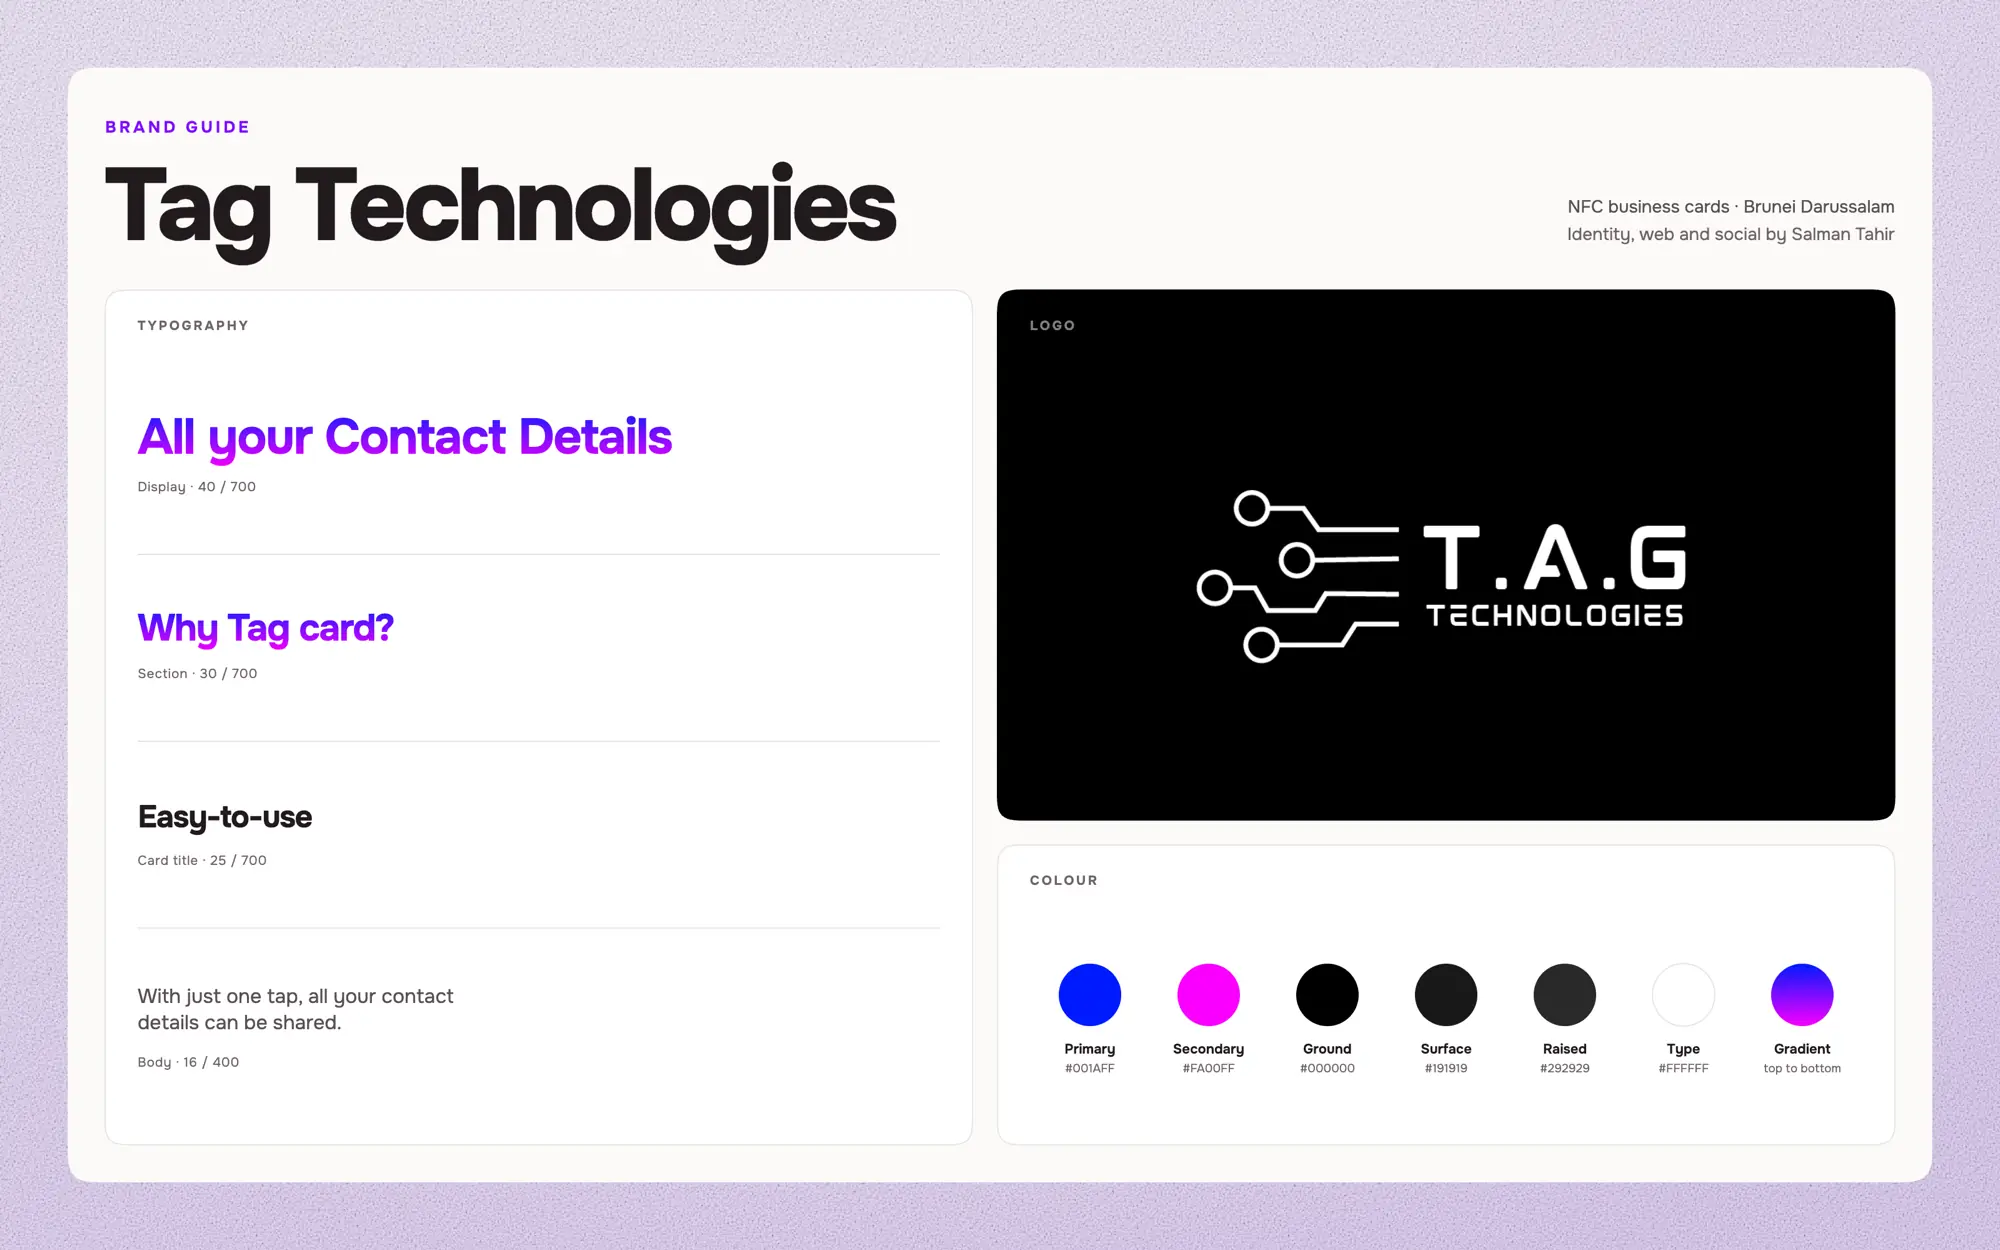
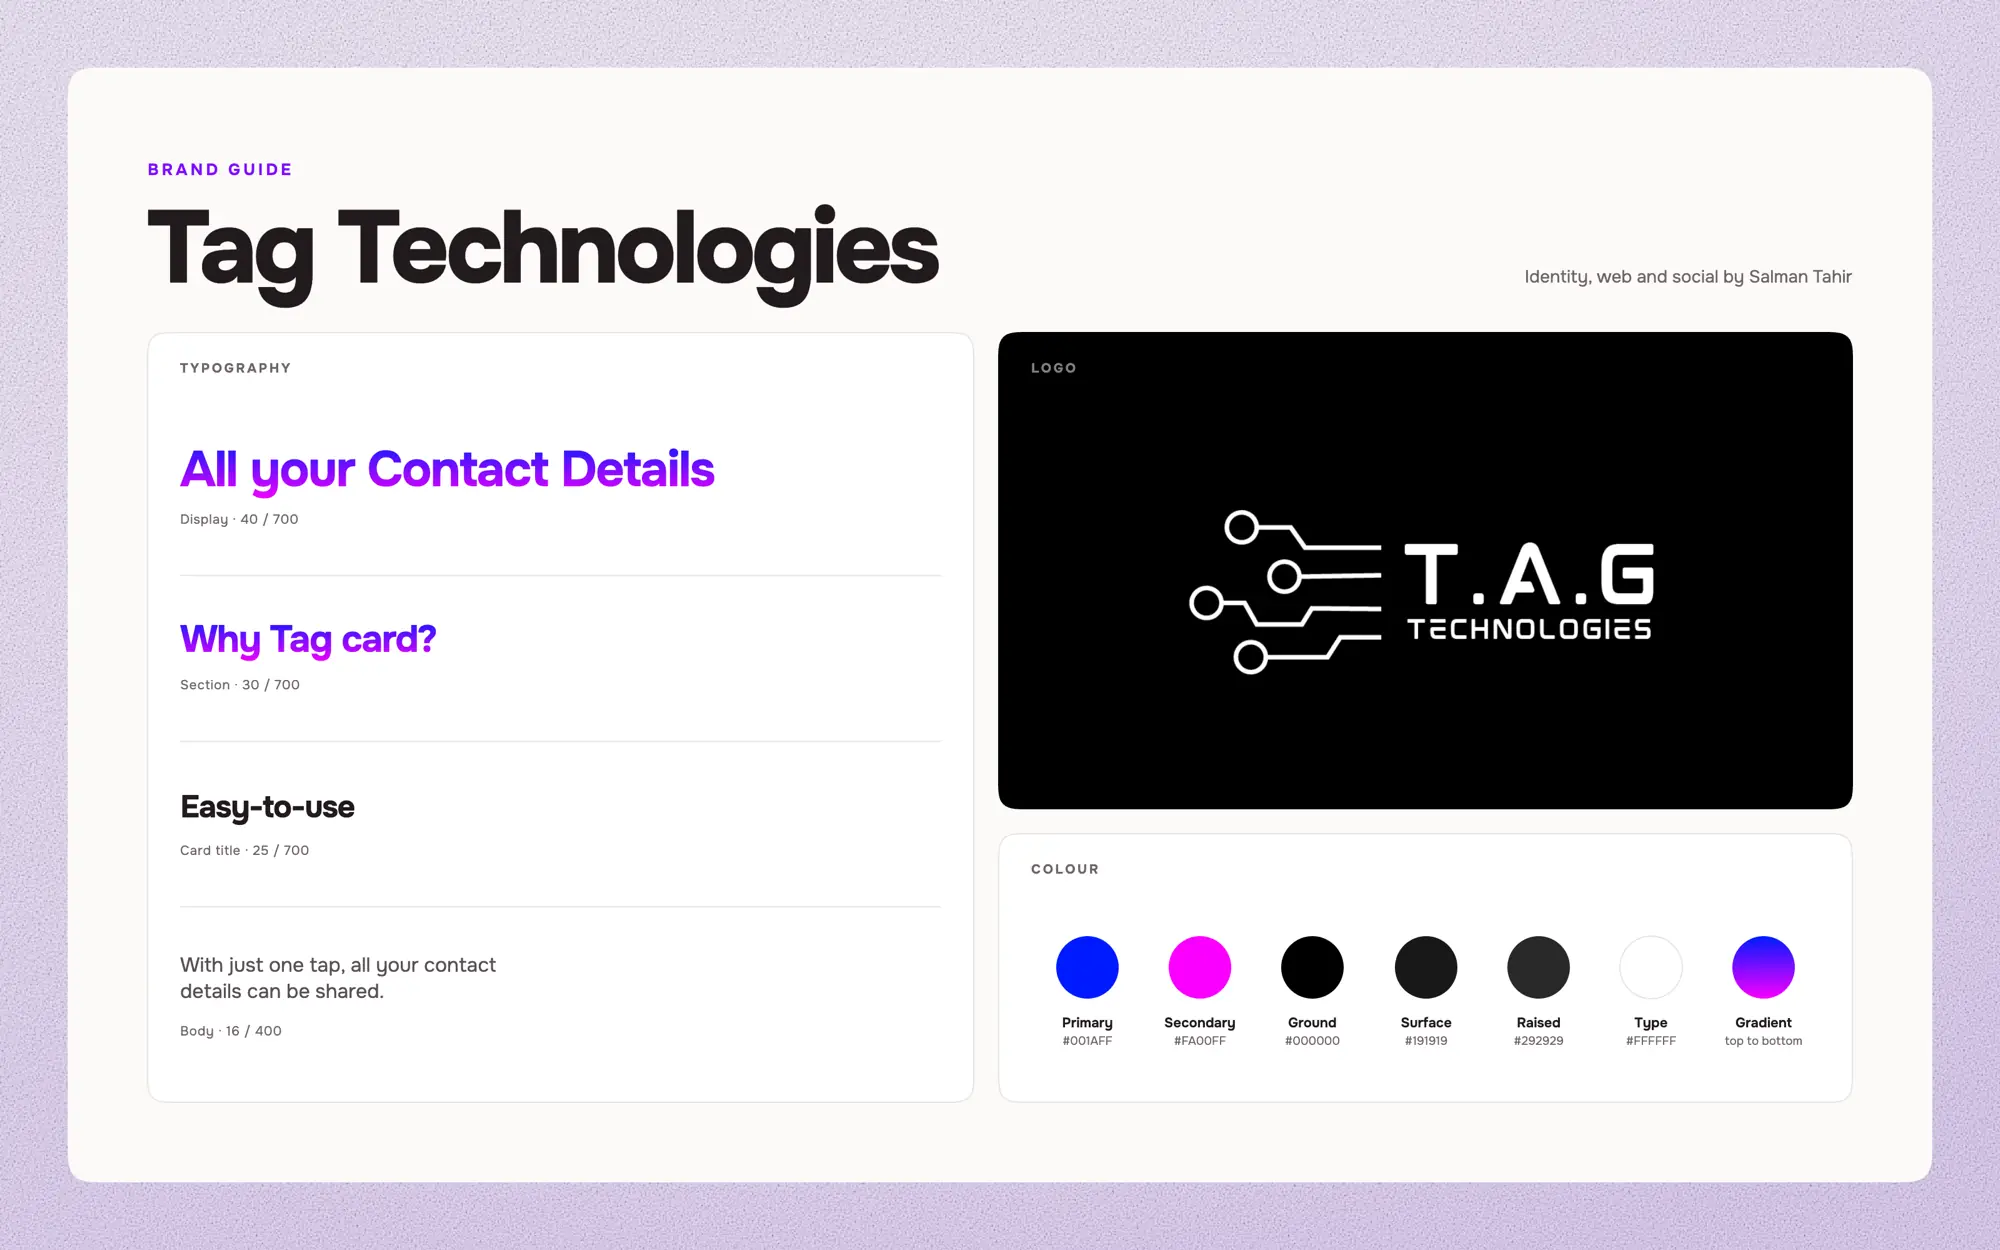
Band the case study, tighten the brand guide
- Case study now bands like the home page: the opening block and feature image
  on paper, the argument on white, related work in its own alt band
- Related tiles lost a slug that leaked in when their pills were added
- Brand guide: more padding inside the sheet, descriptor line removed

diff --git a/work/tag-technologies/index.html b/work/tag-technologies/index.html
@@ -115,7 +115,8 @@
       </div>
     </section>
 
-    <section class="wrap cs-body">
+    <section class="cs-body-sec">
+      <div class="wrap cs-body">
       <div class="cs-main">
 
         <div class="glance rv">
@@ -373,6 +374,7 @@
         <span class="rail-row"><span class="rail-k eyebrow-2 label">Where</span><span class="rail-v">Brunei Darussalam</span></span>
         <span class="rail-row"><span class="rail-k eyebrow-2 label">Live</span><span class="rail-v"><a href="https://tagtechnologies.net" target="_blank" rel="noopener">tagtechnologies.net</a></span></span>
       </aside>
+      </div>
     </section>
   </article>
 
@@ -386,7 +388,7 @@
             <img src="/assets/img/bizdigital/feature.webp" width="1600" height="1757" alt="BizDigital agency website redesign" loading="lazy">
           </span>
           <span class="rel-t">BizDigital</span>
-          <span class="rel-s">Agency site redesign, brief to build</span>bizdigital
+          <span class="rel-s">Agency site redesign, brief to build</span>
           <span class="tags"><span class="tag label sq-xs"><svg viewBox="0 0 24 24"><use href="#i-web"/></svg>Web design</span><span class="tag label sq-xs"><svg viewBox="0 0 24 24"><use href="#i-dev"/></svg>Development</span></span>
         </a>
         <a class="rel" href="/work/">
@@ -394,7 +396,7 @@
             <img src="/assets/img/fxcubict/feature.webp" width="1200" height="975" alt="Fxcubict fintech landing page" loading="lazy">
           </span>
           <span class="rel-t">Fxcubict</span>
-          <span class="rel-s">Fintech landing page and identity</span>fxcubict
+          <span class="rel-s">Fintech landing page and identity</span>
           <span class="tags"><span class="tag label sq-xs"><svg viewBox="0 0 24 24"><use href="#i-brand"/></svg>Brand identity</span><span class="tag label sq-xs"><svg viewBox="0 0 24 24"><use href="#i-ui"/></svg>UI design</span></span>
         </a>
         <a class="rel" href="/work/">
@@ -402,7 +404,7 @@
             <img src="/assets/img/evendor/feature.webp" width="1200" height="916" alt="eVendor online store" loading="lazy">
           </span>
           <span class="rel-t">eVendor</span>
-          <span class="rel-s">Online store, design and front end</span>evendor
+          <span class="rel-s">Online store, design and front end</span>
           <span class="tags"><span class="tag label sq-xs"><svg viewBox="0 0 24 24"><use href="#i-ecom"/></svg>E-commerce</span><span class="tag label sq-xs"><svg viewBox="0 0 24 24"><use href="#i-ui"/></svg>UI design</span></span>
         </a>
       </div>

diff --git a/assets/css/site.css b/assets/css/site.css
@@ -584,7 +584,7 @@ button[disabled]{opacity:.6;cursor:progress}
    back to role and scope while moving through the argument, and losing it
    off the top means scrolling up to answer "who did what" again.
    -------------------------------------------------------------------------- */
-.cs-top{padding:calc(var(--pad) + 104px) 0 0}
+.cs-top{padding:calc(var(--pad) + 104px) 0 clamp(40px,5vw,64px);background:var(--paper)}
 .back{display:inline-flex;align-items:center;gap:8px;color:var(--ink-3);
   font-size:.9rem;font-weight:600;padding:8px 14px;margin-bottom:26px;--bleed:var(--accent-wash)}
 .back svg{width:15px;height:15px}
@@ -601,7 +601,8 @@ button[disabled]{opacity:.6;cursor:progress}
 .cs-feature{display:block;margin-top:clamp(30px,4vw,46px);overflow:hidden;aspect-ratio:16/10}
 .cs-feature img{width:100%;height:100%;object-fit:cover;object-position:center}
 
-.cs-body{padding:clamp(54px,7vw,86px) 0 0;
+.cs-body-sec{background:var(--white)}
+.cs-body{padding:clamp(54px,7vw,86px) 0 clamp(64px,8vw,104px);
   display:grid;grid-template-columns:minmax(0,1fr) 292px;gap:clamp(36px,5vw,68px);align-items:start}
 .cs-main{max-width:70ch}
 
@@ -666,7 +667,9 @@ figcaption a{color:var(--accent);text-decoration:underline;text-underline-offset
 
 
 /* related work, three across, above the CTA */
-.related{padding:clamp(64px,8vw,100px) 0 0}
+/* its own band, the way .more is banded on the home page */
+.related{padding:clamp(72px,9vw,116px) 0;background:var(--alt)}
+.related .rel-shot{background:var(--white)}
 .rel-grid{display:grid;grid-template-columns:repeat(3,1fr);gap:16px;
   margin-top:clamp(26px,3.4vw,36px)}
 .rel-shot{display:block;overflow:hidden;aspect-ratio:16/10;background:var(--alt);--bleed:transparent}
